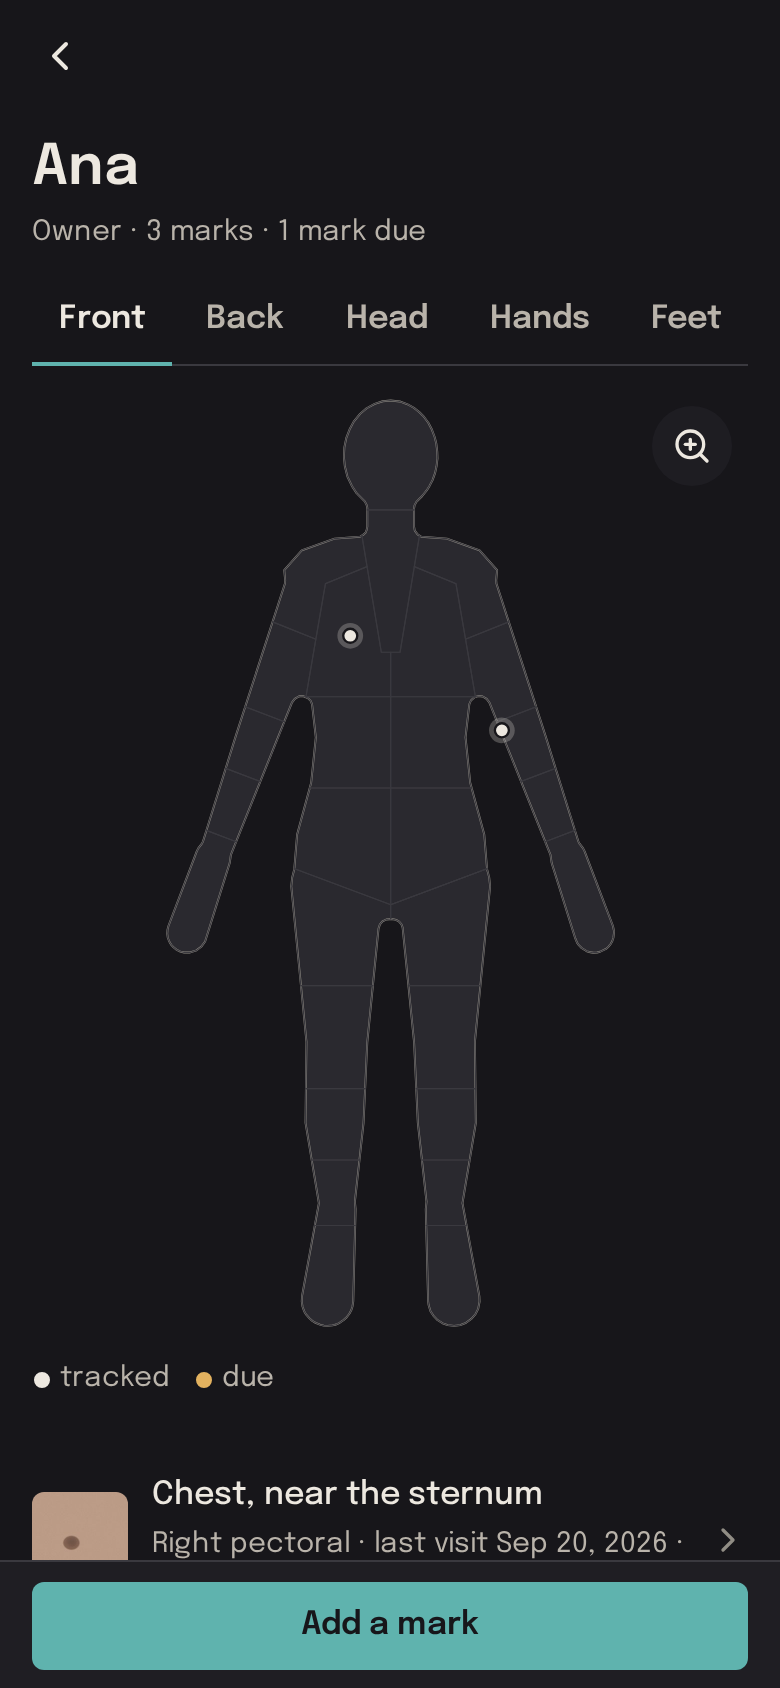
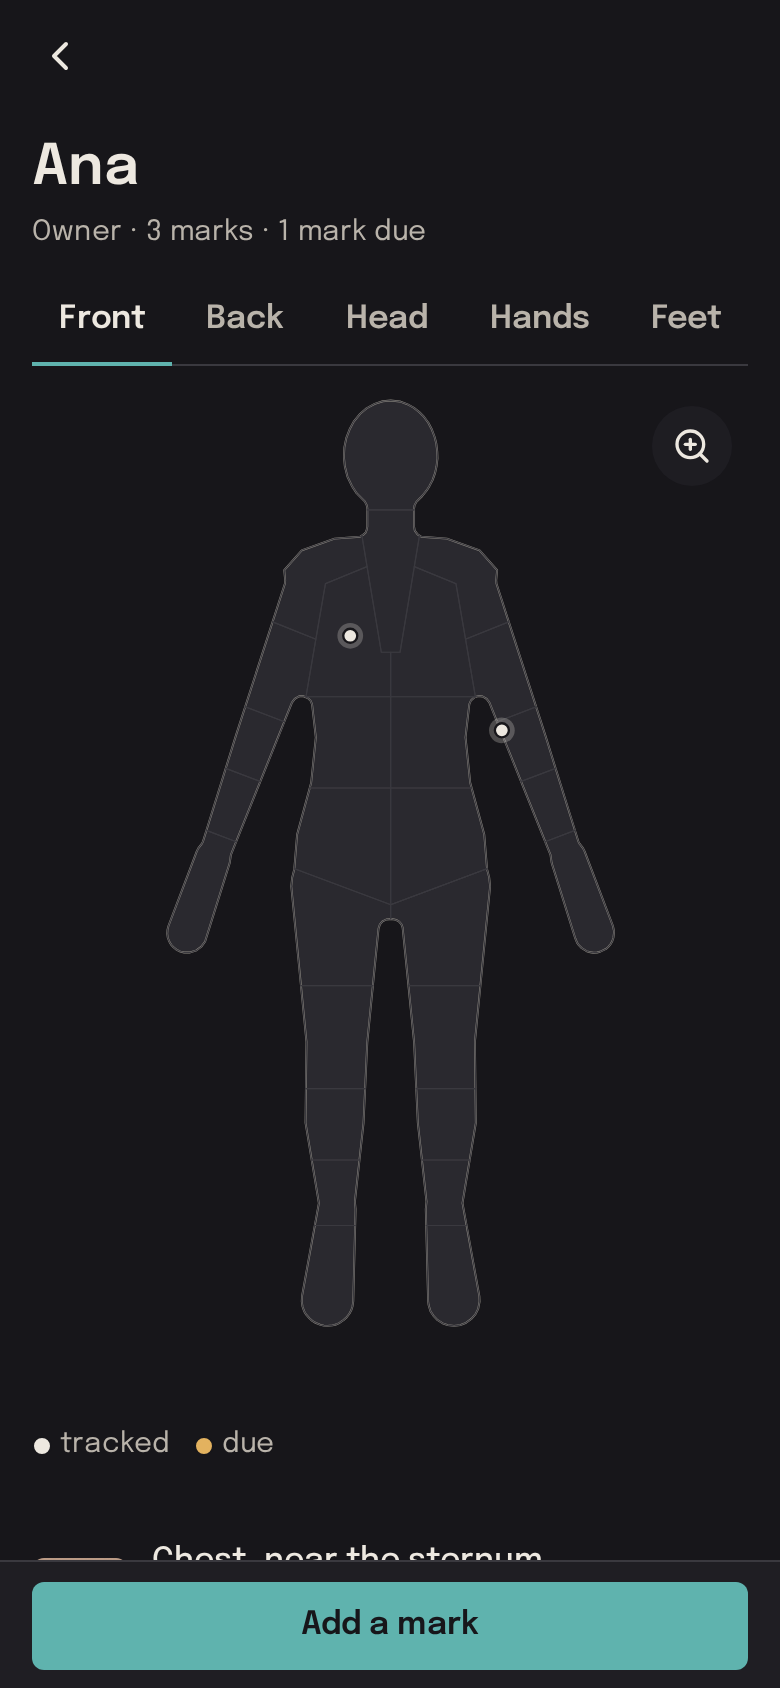
fix(shell): the official mark in the app bar and the rail, at a legible size
The mark drawn in the shell now follows the icon's geometry (the favicon and app icon), and is larger. Store screenshots retaken.

Changed region(s): [[0.0308, 0.8009, 0.7385, 0.9242], [0.7692, 0.8934, 0.8615, 0.9242]]

diff --git a/frontend/src/design-system/components/Mark.tsx b/frontend/src/design-system/components/Mark.tsx
@@ -1,5 +1,5 @@
-/** The divider mark of the wordmark, drawn in the current ink; the hinge's hole shows the paper. */
-export function Mark({ size = 24, className }: { size?: number; className?: string }) {
+/** The mark of the app icon, drawn in the current ink: the divider holding the mark between its points. */
+export function Mark({ size = 32, className }: { size?: number; className?: string }) {
   return (
     <svg
       viewBox="0 0 256 256"
@@ -9,14 +9,15 @@ export function Mark({ size = 24, className }: { size?: number; className?: stri
       focusable="false"
       className={className}
     >
-      <g stroke="currentColor" strokeWidth="22" strokeLinecap="butt">
-        <line x1="64" y1="62" x2="122.35" y2="179.41" />
-        <line x1="192" y1="62" x2="133.65" y2="179.41" />
+      <g stroke="currentColor" strokeWidth="18" strokeLinecap="butt">
+        <line x1="64" y1="70" x2="122.35" y2="179.41" />
+        <line x1="192" y1="70" x2="133.65" y2="179.41" />
       </g>
-      <circle cx="64" cy="62" r="13" fill="currentColor" />
-      <circle cx="192" cy="62" r="13" fill="currentColor" />
-      <circle cx="128" cy="192" r="22" fill="currentColor" />
-      <circle cx="128" cy="192" r="10" fill="var(--color-paper)" />
+      <circle cx="64" cy="70" r="11" fill="currentColor" />
+      <circle cx="192" cy="70" r="11" fill="currentColor" />
+      <circle cx="128" cy="190" r="18" fill="currentColor" />
+      <circle cx="128" cy="190" r="9" fill="var(--color-paper)" />
+      <circle cx="128" cy="84" r="21" fill="var(--color-accent)" />
     </svg>
   );
 }

diff --git a/frontend/src/app/Shell.tsx b/frontend/src/app/Shell.tsx
@@ -88,7 +88,7 @@ export function AppBar({ desktop }: { desktop: boolean }) {
         ) : (
           !desktop && (
             <Link to="/" className={styles.brand} aria-label={t("app.name")}>
-              <Mark size={26} />
+              <Mark size={34} />
             </Link>
           )
         )}
@@ -175,7 +175,7 @@ function Rail() {
   return (
     <nav className={styles.rail} aria-label={t("shell.navigation")} data-chrome="rail">
       <Link to="/" className={styles.railBrand} aria-label={t("app.name")}>
-        <Mark size={28} />
+        <Mark size={36} />
         <span>{t("app.name")}</span>
       </Link>
       <NavLink to="/" end className={item}>
